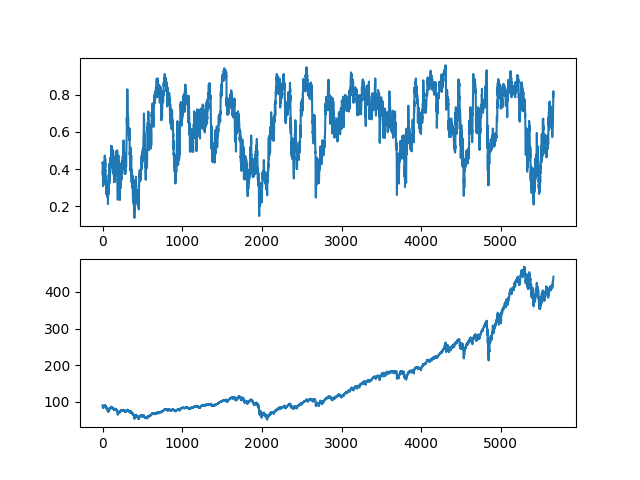
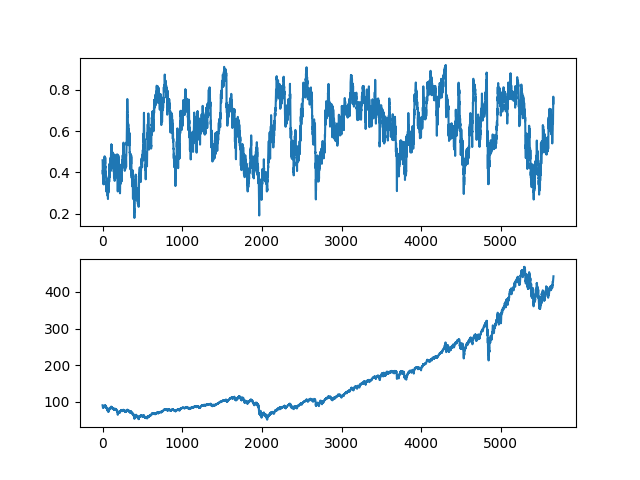
2023-06-15

diff --git a/gbm.py b/gbm.py
@@ -58,7 +58,7 @@ if __name__ == "__main__":
     t = 0
     sim = []
     while t+240 <= dat.shape[0]:
-        p = gbm(dat[:t+240], "6m")
+        p = gbm(dat[:t+240], "6m", 60)
         print("t={}: p(s > s_t)={}" .format(t, p))
         sim.append(p)
         t += 1

diff --git a/README.md b/README.md
@@ -19,7 +19,7 @@ http://www.columbia.edu/~ks20/FE-Notes/4700-07-Notes-GBM.pdf
 
 Using the simulation shown above, we can estimate the probability that the asset value would be greater than the current value during the N-day period following the current time.
 
-At every time ***t***, observe the asset value's historical data during the past 6-months (120 days). Through the GBM simulation, estimate the probability that the asset value would be greater than the current value during the 100-day period following ***t***. This probability is impacted by the short-term mean return and variation in return (or volatility and risk) according to the principles of GBM.
+At every time ***t***, observe the asset value's historical data during the past 6-months (120 days). Through the GBM simulation, estimate the probability that the asset value would be greater than the current value during the 3-month (60-days) period following ***t***. This probability is impacted by the short-term mean return and variation in return (or volatility and risk) according to the principles of GBM.
 
 Repeat the same procedure for every ***t*** and we get the following output.
 
